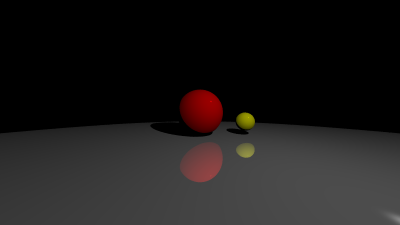
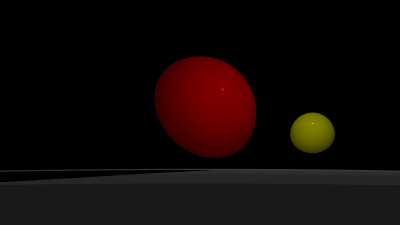
visualization

diff --git a/main.cpp b/main.cpp
@@ -5,13 +5,16 @@
 #include "stb_image_write.h"
 #include "interval.h"
 #define AMBIENT_STRENGTH 0.2f
-#define DIFFUSE_STRENGTH 0.4f
+#define DIFFUSE_STRENGTH 0.3f
 #define SPECULAR_STRENGTH 0.6f
 #define MIRROR_STRENGTH 0.5f
 #define SHININESS 10000.0f
 #define MAX_DEPTH 50
 #include <iostream>
 #include <string>
+#include <GL/glew.h>
+#define GLFW_INCLUDE_NONE
+#include <GLFW/glfw3.h>
 
 color ray_color(const ray &r, const hittable &world, int depth)
 {
@@ -30,7 +33,8 @@ color ray_color(const ray &r, const hittable &world, int depth)
 
         // ambient
         vec3 ambient = rec.col * AMBIENT_STRENGTH;
-
+        if (world.hit(seconadry_ray, interval(0.001, INFINITY), rec) && depth <= MAX_DEPTH)
+            return ambient;
         // diffuse
         vec3 diffuse = DIFFUSE_STRENGTH * std::max(dot(rec.normal, lightDir), 0.0) * rec.col;
 
@@ -52,6 +56,69 @@ color ray_color(const ray &r, const hittable &world, int depth)
     // auto a = 0.5*(unit_direction.y() + 1.0);
     // return (1.0-a)*color(1.0, 1.0, 1.0) + a*color(0.5, 0.7, 1.0);
     return color(0, 0, 0);
+}
+
+void DisplayImage(const std::vector<unsigned char> &image_data, int image_width, int image_height)
+{
+    if (!glfwInit())
+    {
+        std::cerr << "Failed to initialize GLFW" << std::endl;
+        return;
+    }
+
+    // Create a windowed mode window and its OpenGL context
+    GLFWwindow *window = glfwCreateWindow(800, 600, "Image Display", NULL, NULL);
+    if (!window)
+    {
+        glfwTerminate();
+        std::cerr << "Failed to create GLFW window" << std::endl;
+        return;
+    }
+
+    // Make the window's context current
+    glfwMakeContextCurrent(window);
+    glfwSetInputMode(window, GLFW_STICKY_KEYS, GL_TRUE);
+
+    // Initialize GLEW
+    GLenum err = glewInit();
+    if (err != GLEW_OK)
+    {
+        std::cerr << "GLEW initialization error: " << glewGetErrorString(err) << std::endl;
+        glfwTerminate();
+        return;
+    }
+    // Flip the image vertically
+    std::vector<unsigned char> flipped_image(image_data);
+    for (int i = 0; i < image_height / 2; ++i)
+    {
+        int flip_i = image_height - 1 - i;
+        for (int j = 0; j < image_width * 3; ++j)
+        {
+            std::swap(flipped_image[i * image_width * 3 + j], flipped_image[flip_i * image_width * 3 + j]);
+        }
+    }
+
+    // Calculate the position to center the image
+    int xPos = (800 - image_width) / 2;
+    int yPos = (600 - image_height) / 2;
+
+    // Main rendering loop
+    while (!glfwWindowShouldClose(window))
+    {
+        // Render
+        // Set the raster position to center the image
+        //glRasterPos2i(xPos, yPos);
+
+        glClearColor(1.0f, 1.0f, 1.0f, 1.0f);
+        glClear(GL_COLOR_BUFFER_BIT);
+        glDrawPixels(image_width, image_height, GL_RGB, GL_UNSIGNED_BYTE, &flipped_image[0]);
+        glfwSwapBuffers(window);
+        glfwPollEvents();
+    }
+
+    // Clean up
+
+    glfwTerminate();
 }
 
 int main()
@@ -81,10 +148,11 @@ int main()
 
     // Create a buffer to store the pixel data
     std::vector<unsigned char> image_data(image_width * image_height * 3);
+    // std::vector<unsigned char> image_data(image_width * image_height * 3);
 
     for (int t = 0; t < 1; t++)
     {
-        auto camera_center = point3(0, t*0.1, 1.5);
+        auto camera_center = point3(0, t * 0.1, 1.5);
 
         // Calculate the vectors across the horizontal and down the vertical viewport edges.
         auto viewport_u = vec3(viewport_width, 0, 0);
@@ -113,13 +181,13 @@ int main()
                     auto pixel_sample_square = ((-0.5 + random1) * pixel_delta_u) + ((-0.5 + random2) * pixel_delta_v);
                     auto pixel_sample = pixel_center + pixel_sample_square;
                     auto ray_direction = pixel_sample - camera_center;
-                    orthogonal = false;
+                    orthogonal = true;
                     ray r;
-                    if(orthogonal)
+                    if (orthogonal)
                     {
-                        r = ray(pixel_sample, -vec3(0,0,1));
+                        r = ray(pixel_sample, -vec3(0, 0, 1));
                     }
-                    else 
+                    else
                     {
                         r = ray(camera_center, ray_direction);
                     }
@@ -128,7 +196,6 @@ int main()
                     color objColor = ray_color(r, world, depth);
 
                     pixel_color += objColor;
-                    // pixel_color += AMBIENT_STRENGTH * objColor; //adding ambience (?)
                 }
 
                 // pixel_color += AMBIENT_STRENGTH * pixel_color;
@@ -150,10 +217,12 @@ int main()
         }
 
         // Save the image as a PNG file using stb_image_write
-        //std::string str = "frames/output_" + std::to_string(t) + ".png";
+        // std::string str = "frames/output_" + std::to_string(t) + ".png";
         std::string str = "output_" + std::to_string(t) + ".png";
+
         const char *charArray = str.c_str();
         stbi_write_png(charArray, image_width, image_height, 3, image_data.data(), image_width * 3);
+        DisplayImage(image_data, image_width, image_height);
         std::clog << "\rDone. Image saved as " << str << "\n";
     }
 }
